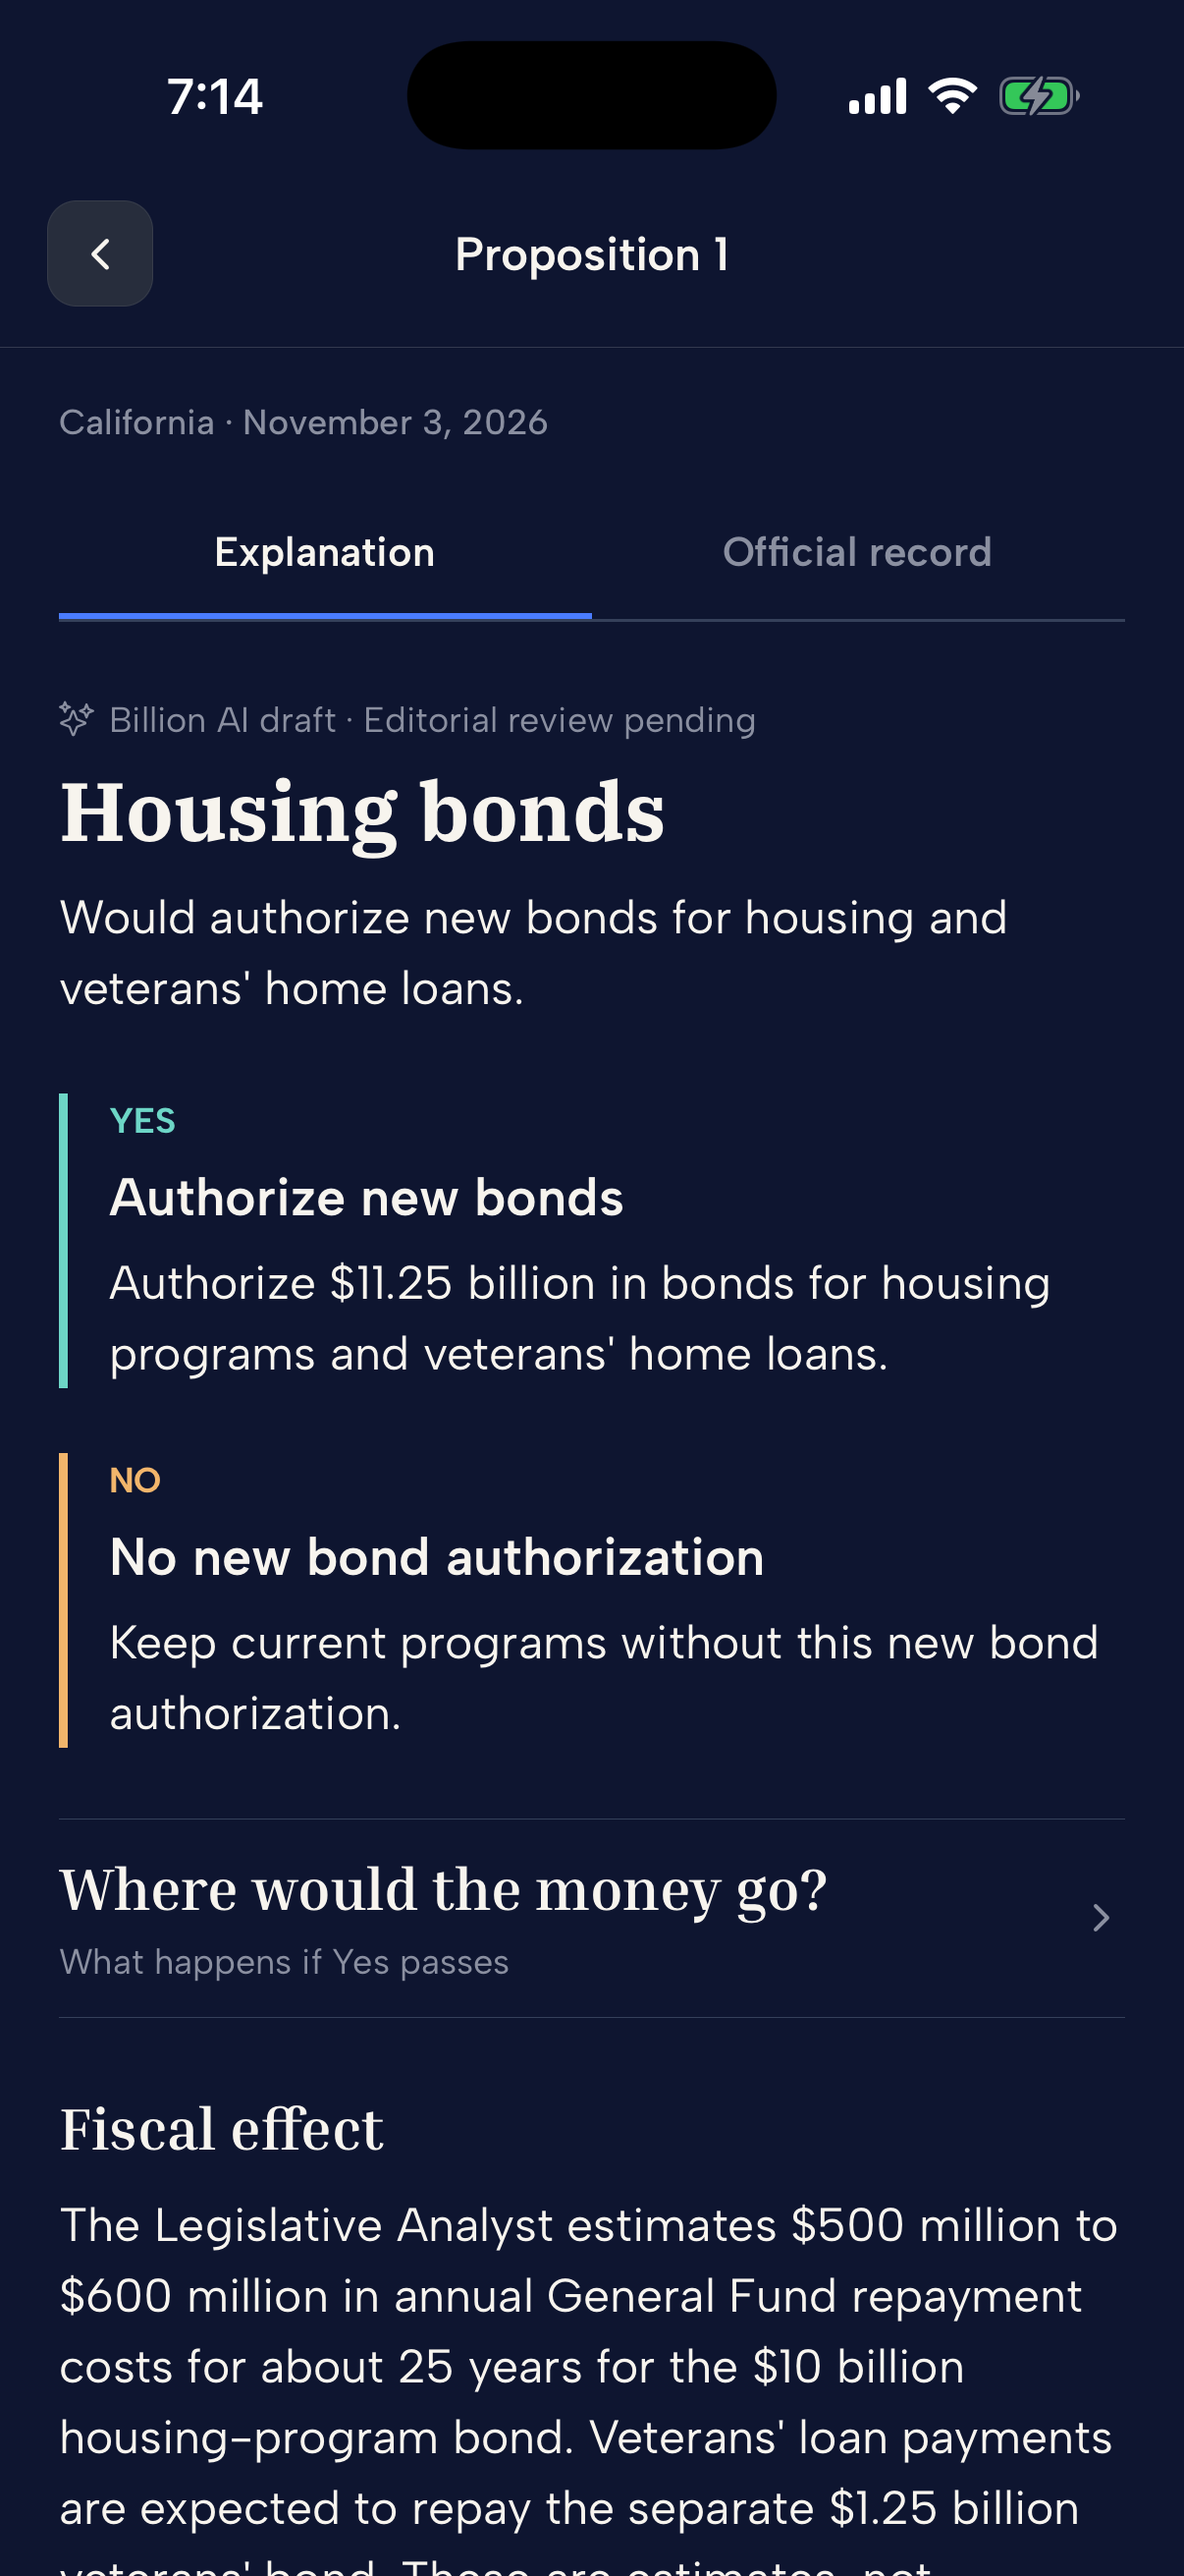
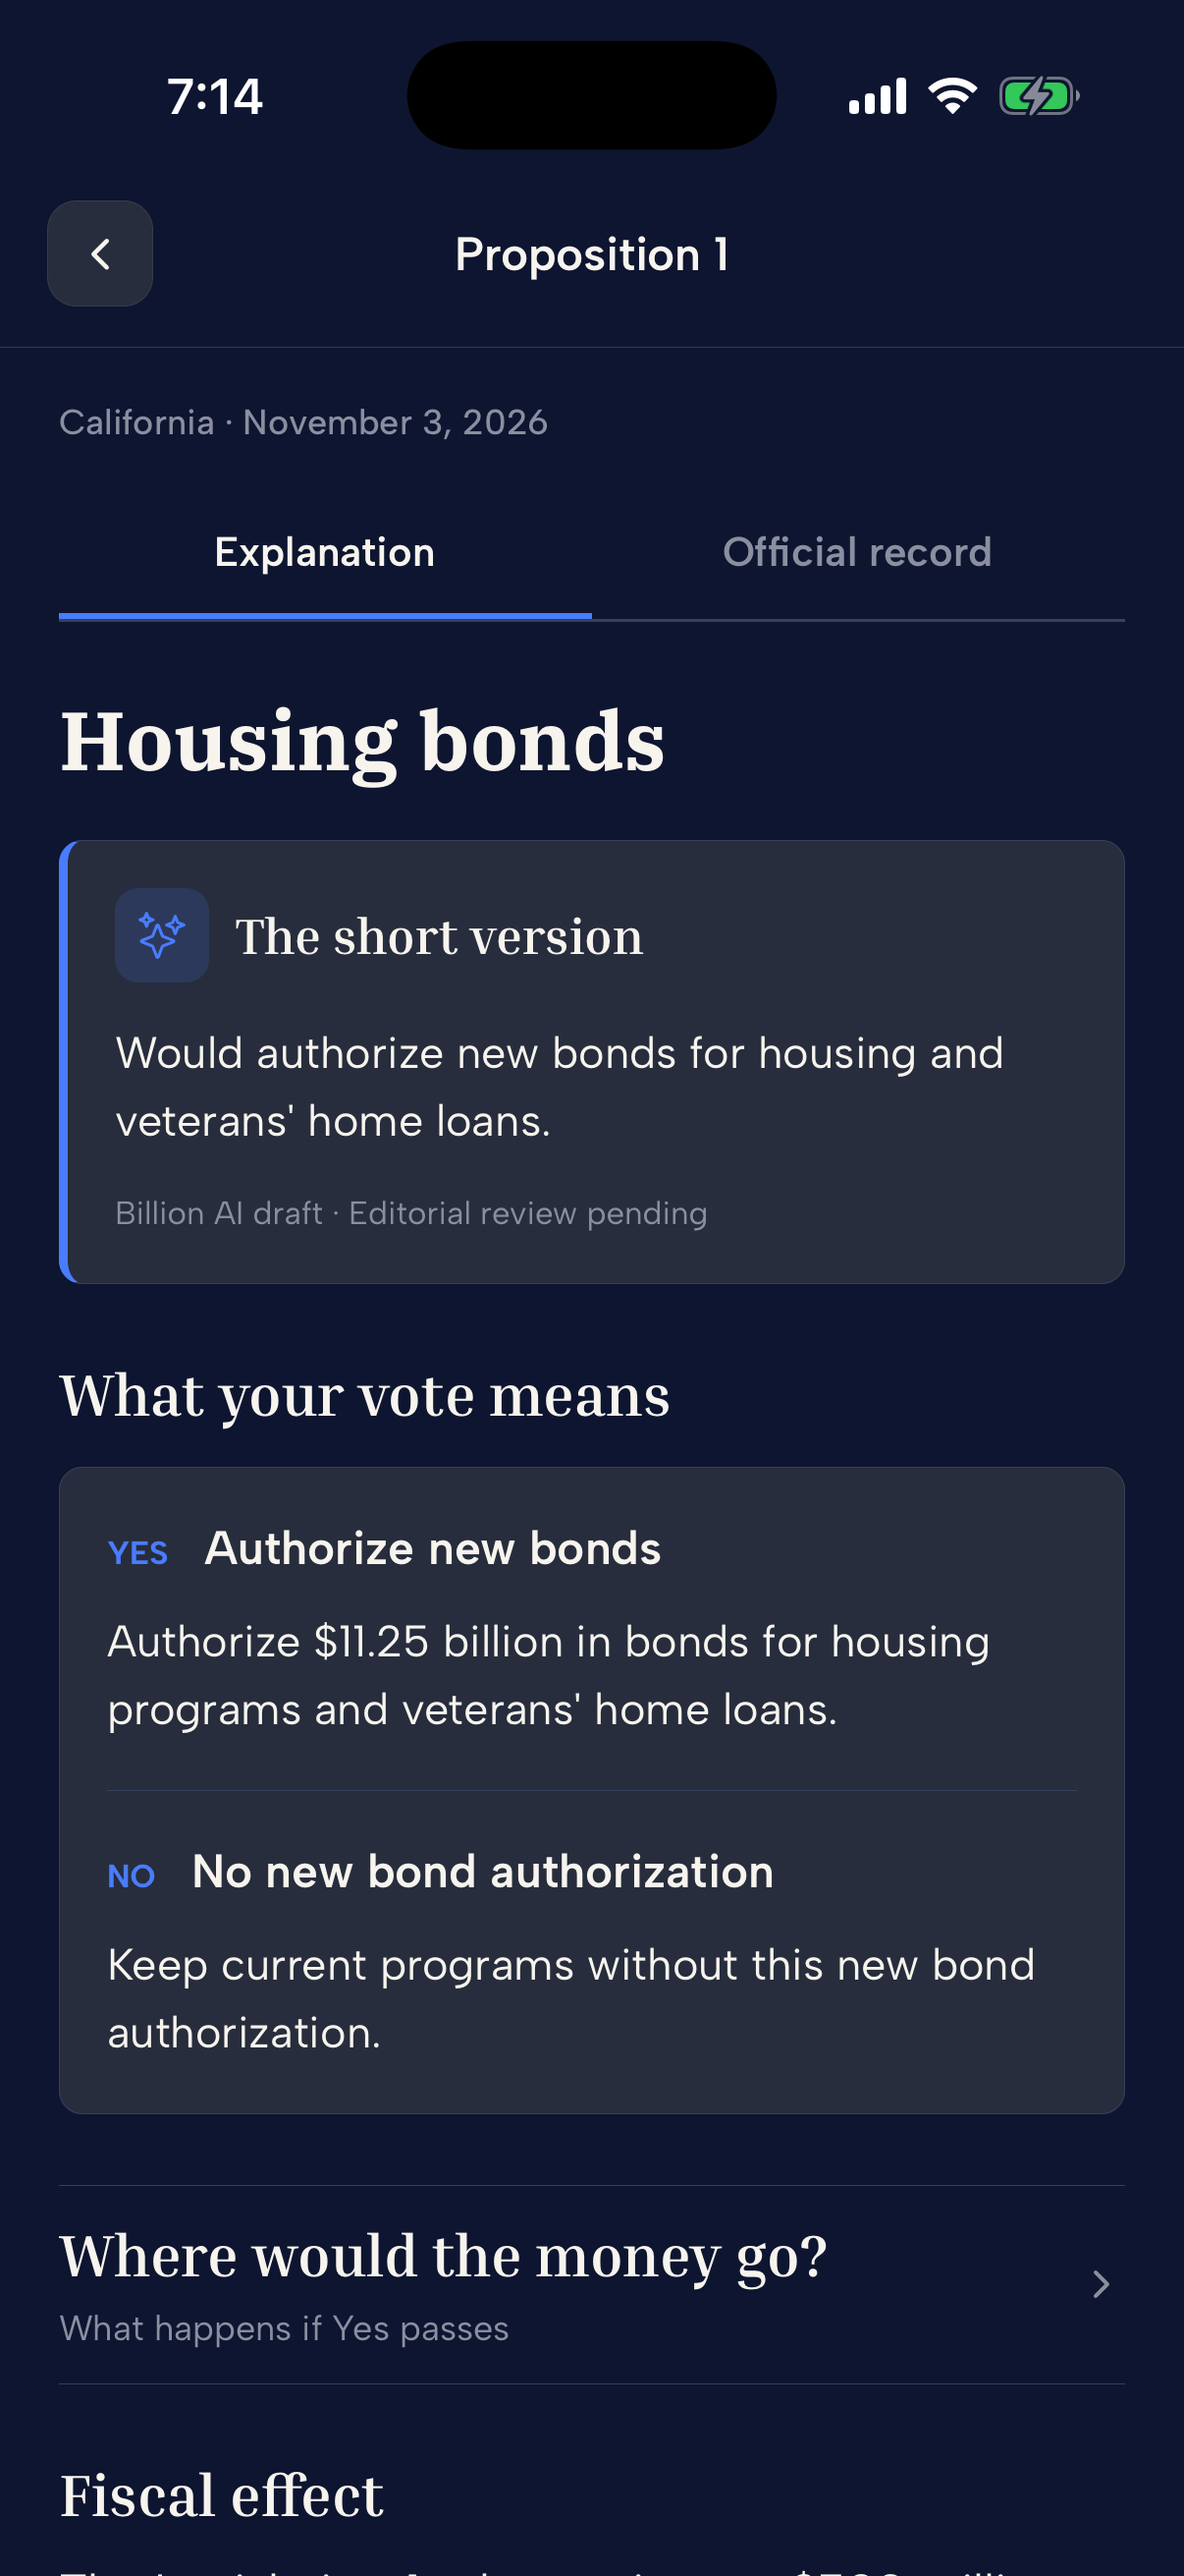
Align proposition explanation with bill brief design

diff --git a/apps/expo/src/app/proposition-detail.tsx b/apps/expo/src/app/proposition-detail.tsx
@@ -20,7 +20,6 @@ import {
   fontBody,
   fontDisplay,
   fontEditorial,
-  lensColors,
   DigestPalette as P,
   sp,
 } from "~/styles";
@@ -135,10 +134,6 @@ export default function PropositionDetailScreen() {
             {explainer && !recordMode ? (
               <>
                 <View style={s.explainerLead}>
-                  <View style={s.aiRow}>
-                    <Icon name="sparkle" size={12} color={P.quiet} />
-                    <Text style={s.aiText}>{PROPOSITION_AI_LABEL}</Text>
-                  </View>
                   <Text
                     accessibilityRole="header"
                     allowFontScaling={false}
@@ -146,21 +141,34 @@ export default function PropositionDetailScreen() {
                   >
                     {explainer.headline}
                   </Text>
-                  <Text style={s.takeaway}>{explainer.takeaway}</Text>
+                  <View style={s.summaryCard}>
+                    <View style={s.summaryHead}>
+                      <View style={s.summaryIcon}>
+                        <Icon name="sparkle" size={16} color={P.primary} />
+                      </View>
+                      <Text style={s.summaryTitle}>The short version</Text>
+                    </View>
+                    <Text style={s.takeaway}>{explainer.takeaway}</Text>
+                    <Text style={s.aiText}>{PROPOSITION_AI_LABEL}</Text>
+                  </View>
                 </View>
-                <View style={s.outcomes}>
-                  <Outcome
-                    label="YES"
-                    title={explainer.voteTitleYes}
-                    body={explainer.voteBriefYes}
-                    color={lensColors.proponents}
-                  />
-                  <Outcome
-                    label="NO"
-                    title={explainer.voteTitleNo}
-                    body={explainer.voteBriefNo}
-                    color={lensColors.opponents}
-                  />
+                <View style={s.voteSection}>
+                  <Text accessibilityRole="header" style={s.heading}>
+                    What your vote means
+                  </Text>
+                  <View style={s.voteCard}>
+                    <Outcome
+                      label="YES"
+                      title={explainer.voteTitleYes}
+                      body={explainer.voteBriefYes}
+                    />
+                    <View style={s.voteDivider} />
+                    <Outcome
+                      label="NO"
+                      title={explainer.voteTitleNo}
+                      body={explainer.voteBriefNo}
+                    />
+                  </View>
                 </View>
                 {explainer.caveat && (
                   <Text style={s.caveat}>{explainer.caveat}</Text>
@@ -295,19 +303,19 @@ function Outcome({
   label,
   title,
   body,
-  color,
 }: {
   label: "YES" | "NO";
   title: string;
   body: string;
-  color: string;
 }) {
   return (
-    <View style={[s.outcome, { borderLeftColor: color }]}>
-      <Text style={[s.outcomeLabel, { color }]}>{label}</Text>
-      <Text accessibilityRole="header" style={s.outcomeTitle}>
-        {title}
-      </Text>
+    <View style={s.outcome}>
+      <View style={s.outcomeHead}>
+        <Text style={s.outcomeLabel}>{label}</Text>
+        <Text accessibilityRole="header" style={s.outcomeTitle}>
+          {title}
+        </Text>
+      </View>
       <Text style={s.outcomeBody}>{body}</Text>
     </View>
   );
@@ -434,49 +442,88 @@ const s = StyleSheet.create({
     lineHeight: 20,
   },
   modeTextSelected: { color: P.inkOnNight },
-  explainerLead: { gap: 6 },
+  explainerLead: { gap: 16 },
   headline: {
     fontFamily: fontDisplay.bold,
     fontSize: 28,
     lineHeight: 34,
     color: P.inkOnNight,
   },
-  takeaway: {
-    fontFamily: fontBody.regular,
-    fontSize: 16,
-    lineHeight: 24,
+  summaryCard: {
+    backgroundColor: P.card,
+    borderColor: P.border,
+    borderWidth: StyleSheet.hairlineWidth,
+    borderLeftWidth: 3,
+    borderLeftColor: P.primary,
+    borderRadius: 8,
+    padding: 16,
+    gap: 12,
+  },
+  summaryHead: { flexDirection: "row", alignItems: "center", gap: 9 },
+  summaryIcon: {
+    width: 32,
+    height: 32,
+    borderRadius: 8,
+    backgroundColor: `${P.primary}28`,
+    alignItems: "center",
+    justifyContent: "center",
+  },
+  summaryTitle: {
+    flex: 1,
+    fontFamily: fontEditorial.bold,
+    fontSize: 17,
+    lineHeight: 23,
     color: P.inkOnNight,
   },
-  aiRow: { flexDirection: "row", alignItems: "center", gap: 5 },
-  aiText: {
-    flex: 1,
+  takeaway: {
     fontFamily: fontBody.regular,
-    fontSize: 12,
-    lineHeight: 18,
+    fontSize: 15,
+    lineHeight: 23,
+    color: P.inkOnNight,
+  },
+  aiText: {
+    fontFamily: fontBody.regular,
+    fontSize: 11,
+    lineHeight: 16,
     color: P.quiet,
   },
-  outcomes: { gap: 22 },
-  outcome: {
-    borderLeftWidth: 3,
-    paddingLeft: 14,
-    gap: 5,
+  voteSection: { gap: 12 },
+  voteCard: {
+    backgroundColor: P.card,
+    borderColor: P.border,
+    borderWidth: StyleSheet.hairlineWidth,
+    borderRadius: 8,
+    padding: 16,
+  },
+  voteDivider: {
+    height: StyleSheet.hairlineWidth,
+    backgroundColor: P.border,
+    marginVertical: 16,
+  },
+  outcome: { gap: 8 },
+  outcomeHead: {
+    flexDirection: "row",
+    alignItems: "baseline",
+    gap: 12,
   },
   outcomeLabel: {
     fontFamily: fontBody.bold,
-    fontSize: 12,
-    lineHeight: 18,
+    fontSize: 11,
+    lineHeight: 21,
+    color: P.primary,
   },
   outcomeTitle: {
+    flex: 1,
     color: P.inkOnNight,
     fontFamily: fontBody.semibold,
-    fontSize: 18,
-    lineHeight: 24,
+    fontSize: 16,
+    lineHeight: 22,
   },
   outcomeBody: {
     color: P.inkOnNight,
     fontFamily: fontBody.regular,
-    fontSize: 16,
-    lineHeight: 24,
+    fontSize: 15,
+    lineHeight: 23,
   },
   caveat: {
     color: P.quiet,
